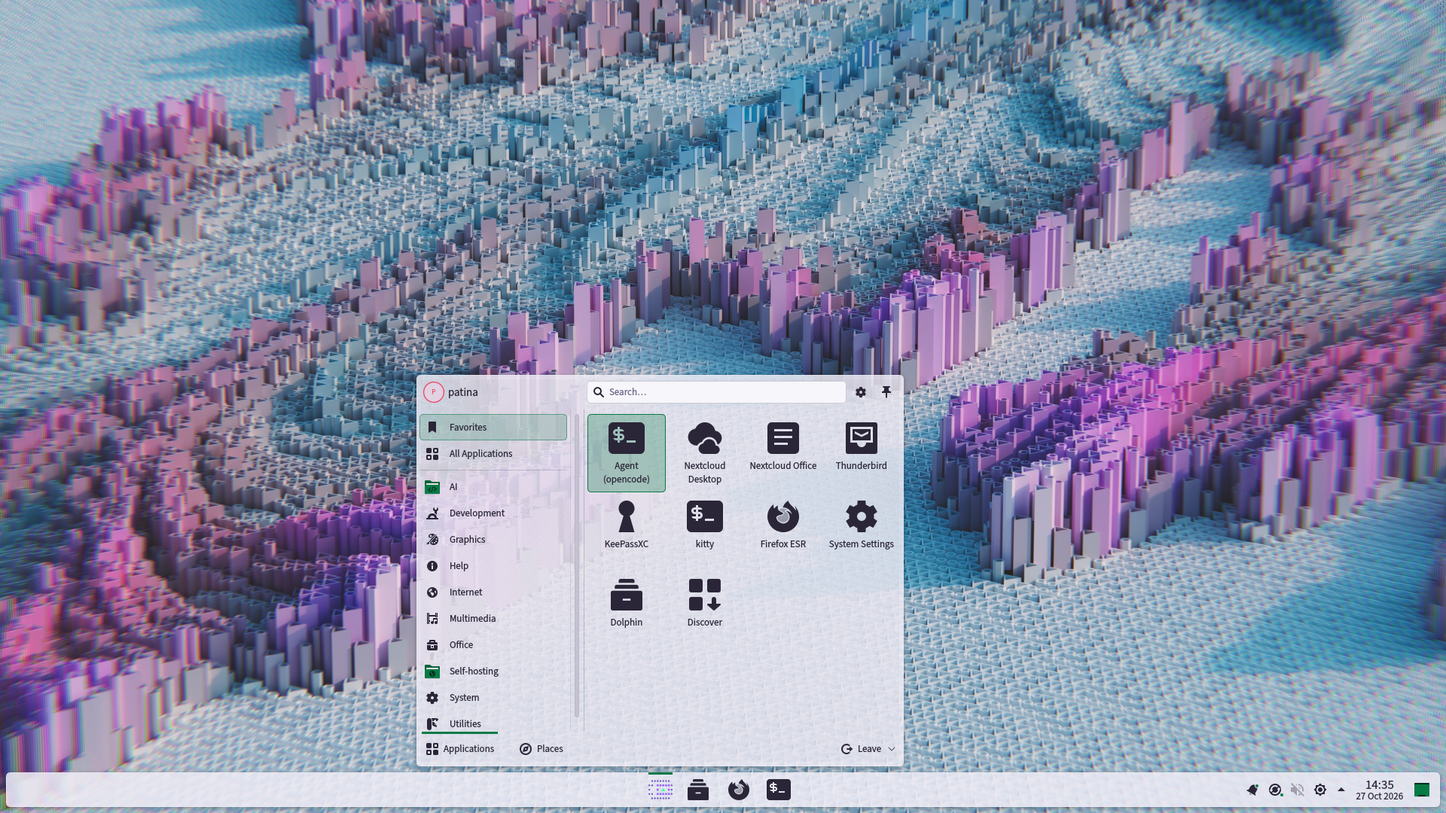
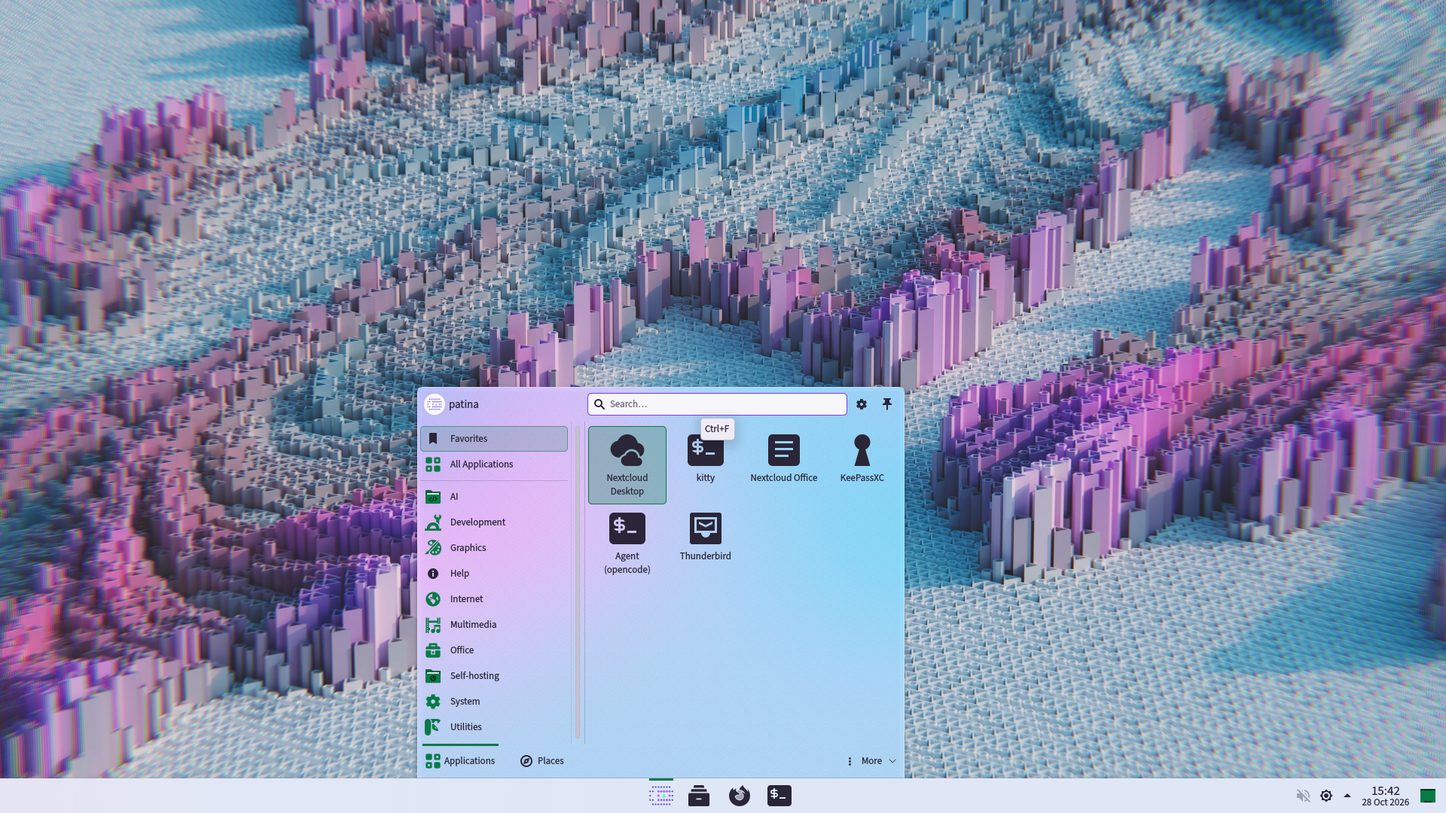
Refresh the README's screenshots from CI
The desktop workflow's run on #44's head and the image's boot test on
#42's head show the look as it is on main now: the installer's glass
sidebar in British English, kitty as the one see-through window, and the
glass start menu with its green category icons, the apps by name and the
mark as the user's picture. The captions describe what the new pictures
show, the kortex section no longer calls a local model the default (the
agent is opt-in), and the status notes the first VM run.

Claude-Session: https://claude.ai/code/session_013UKWhUKXQjvcUEQN5DVrxA

Changed region(s): [[0.0, 0.4583, 1.0, 1.0]]

diff --git a/README.md b/README.md
@@ -19,8 +19,8 @@
 
 **Status: alpha, for testers.** `patina install` installs the app stack, the AI agent
 and the system tuning on Debian 13 and renders the default theme, aurora, into Plasma's
-configuration (checked in CI containers on x86_64 and aarch64, not yet on a real
-desktop); the branded install is still to come. [Testing the alpha](#testing-the-alpha) says how to
+configuration (checked in CI containers on x86_64 and aarch64 and in a first run on a
+Debian 13 VM, not yet on real hardware); the branded install is still to come. [Testing the alpha](#testing-the-alpha) says how to
 help; see the [roadmap](docs/roadmap.md).
 
 ## The agent in the command palette
@@ -36,8 +36,8 @@ once, Always and Deny. Nothing runs before you choose. Above, `ai install photoc
 the agent knows PhotoCraft comes with the ArtCraft Launcher, patina's `artcraft`
 bundle, asks before it runs `patina install --bundles artcraft`, and asks again before
 it opens the launcher, where you pick PhotoCraft. The agent is
-[opencode](https://opencode.ai), free software, with a model on your machine by default;
-[The AI agent](#the-ai-agent) says more.
+[opencode](https://opencode.ai), free software, with a model on your machine or from a
+cloud provider you pick, once you turn it on; [The AI agent](#the-ai-agent) says more.
 
 <sub>A replay of a real run of kortex 0.1.0 with opencode and a scripted model; how it
 is made is in kortex's [`docs/demo/`](https://github.com/patina-os/kortex/tree/main/docs/demo).</sub>
@@ -46,14 +46,15 @@ is made is in kortex's [`docs/demo/`](https://github.com/patina-os/kortex/tree/m
 
 All taken by CI, never edited (`iso/README.md` says how). The installer's welcome page,
 as the live image's boot test captures it (amd64, QEMU, Calamares as Debian 13 ships it,
-branded through data), with the AI agent's page among the steps:
+branded through data), in British English, its sidebar and buttons glass over the
+blurred wallpaper, with the AI agent's page among the steps:
 
 ![The patina installer's welcome page](docs/screenshots/installer-amd64.png)
 
 The finished desktop, as the `desktop` workflow captures it (amd64, a Plasma X11
 session on a virtual framebuffer after `patina install`): aurora, the default theme,
-with its wallpaper, the centred bar of one-colour icons and slightly see-through
-windows: kitty split in two, the fastfetch greeting beside btop.
+with its wallpaper, the centred bar of one-colour icons and kitty, the one
+see-through window, split in two: the fastfetch greeting beside btop.
 
 ![The patina desktop with the aurora theme](docs/screenshots/desktop-amd64.png)
 
@@ -65,8 +66,9 @@ Always or Deny. The model is kortex's scripted demo model, since CI has none to 
 ![KRunner with kortex in the middle of the desktop: the agent asks before it installs the artcraft bundle for PhotoCraft](docs/screenshots/command-palette-amd64.png)
 
 The start menu in aurora's light mode (`patina theme mode light`), over its own
-DeepMind wallpaper: the patina mark as its button, the AI and self-hosting folders
-first, then the favourites.
+DeepMind wallpaper: glass the wallpaper glows through, the category icons in the
+accent, the apps by their names alone, and the small patina mark as the user's
+picture while it is Debian's.
 
 ![The patina start menu in the light mode](docs/screenshots/start-menu-amd64.png)
 
@@ -131,9 +133,9 @@ your PATH and link `patina` there (`ln -s ~/.local/share/patina/bin/patina
 
 `v0.1.0-alpha.1` is the first release, for people willing to try patina on a fresh
 Debian 13 with Plasma and report what they see. It is Path A only; the image is not
-handed out yet. Everything has run in CI containers and a headless Plasma session, never
-on a real desktop, so expect rough edges, and use a VM with a snapshot or a machine you
-can reinstall.
+handed out yet. Beyond CI containers and a headless Plasma session it has had one run
+on a Debian 13 VM, whose fixes are on `main`, and none on real hardware, so expect rough
+edges, and use a VM with a snapshot or a machine you can reinstall.
 
 1. Follow [docs/vm-run.md](docs/vm-run.md): the VM, Debian 13, then `patina install`
    twice, the reboot, the apps and the look, ticking each check. The agents bundle
@@ -173,9 +175,9 @@ JetBrains Mono, the wordmark in Sora. The default theme is aurora, made for OLED
 screens: true black, neon green as the accent and violet as the second colour, a
 Google DeepMind visualisation from Pexels as the wallpaper (a white one of the same
 series in the light mode) and a contour map that glows green to violet as the second.
-Every app's icon is a monochrome glyph in one colour, the folders are green, and the
-start menu (the patina mark, AI and self-hosting first)
-and the other popups carry a slight grain. It is
+Every app's icon is a monochrome glyph in the text colour, the folders are green, the
+start menu (the patina mark, AI and self-hosting first) is glass the wallpaper glows
+through, its category icons green, and it and the other popups carry a slight grain. It is
 dark by default; `patina theme mode light` switches it to its light palette and
 `patina theme mode dark` back. The mark is text, a summit shaded with the letters of
 patina in violet with a green survey point, so the terminal and the screens show the

diff --git a/CHANGELOG.md b/CHANGELOG.md
@@ -110,6 +110,9 @@ All notable changes to patina are documented here. The format follows
   welcome page's links and About are green.
 - The installer starts in British English; its first page still offers every other
   language.
+- The README's screenshots show the new look, taken by CI: the installer's glass
+  sidebar in British English, kitty as the one see-through window, and the glass start
+  menu with its green category icons and the mark as the user's picture.
 
 ### Fixed
 
